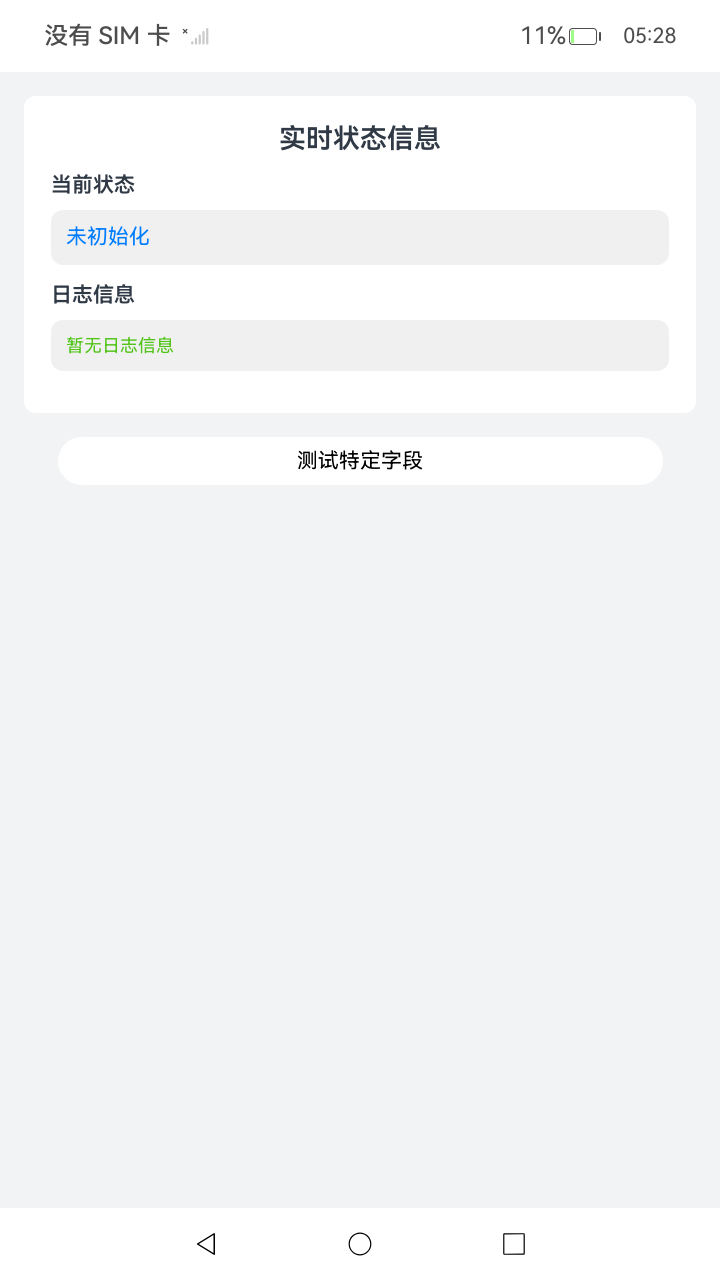
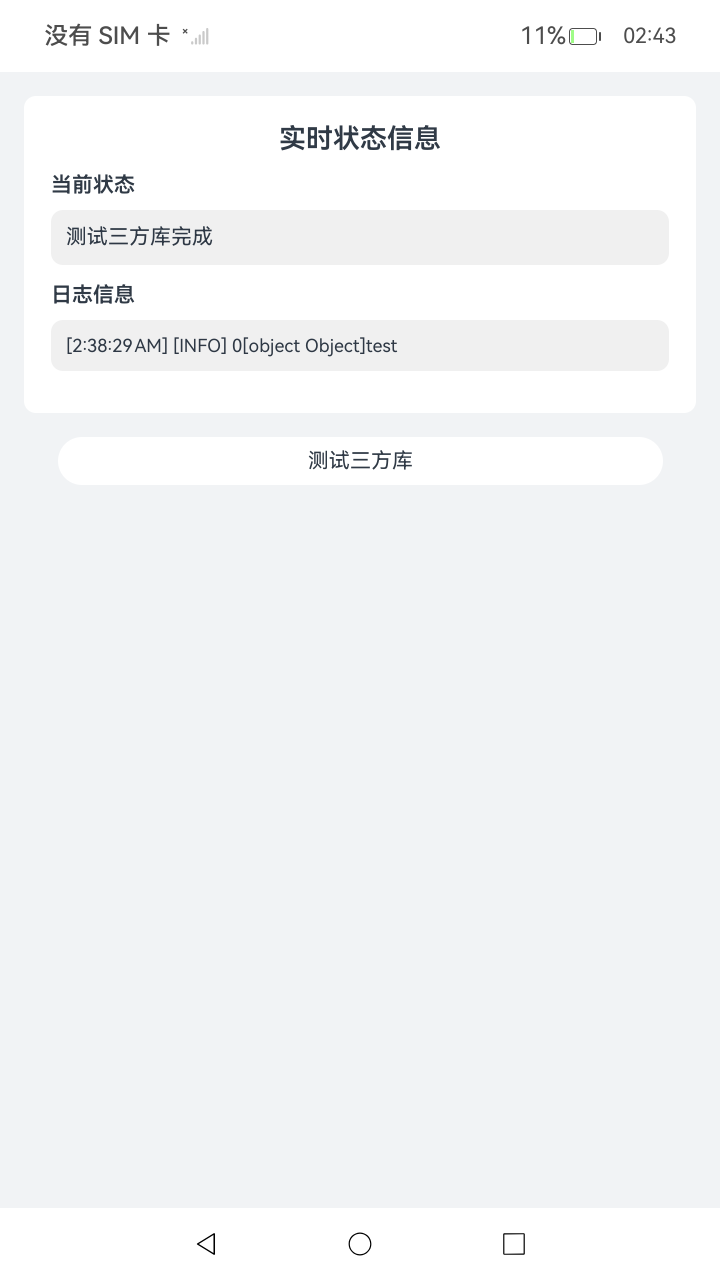
Add fixed ArkoptionGuide sample demo

diff --git a/code/DocsSample/ArkTS/ArkTSCompilationToolchain/ArkoptionsGuide/ohosTest.md b/code/DocsSample/ArkTS/ArkTSCompilationToolchain/ArkoptionsGuide/ohosTest.md
@@ -1,4 +1,4 @@
-| 测试功能              | 预置条件 | 输入         | 预期输出                                              |是否自动|测试结果|
-|-------------------|------|------------|---------------------------------------------------|--------------------------------|--------------------------------|
-| 拉起应用              | 	设备正常运行 | 		         | 成功拉起应用                          |是|Pass|
-| 测试特定字段  | 执行用例 | 执行无需输入     | 输出Log：测试特定字段完成   |是|Pass|
+| 测试功能  | 预置条件 | 输入         | 预期输出                        |是否自动|测试结果|
+|-------|------|------------|-----------------------------|--------------------------------|--------------------------------|
+| 拉起应用  | 	设备正常运行 | 		         | 成功拉起应用                      |是|Pass|
+| 测试三方库 | 执行用例 | 执行无需输入     | 输出Log：测试三方库完成 |是|Pass|
